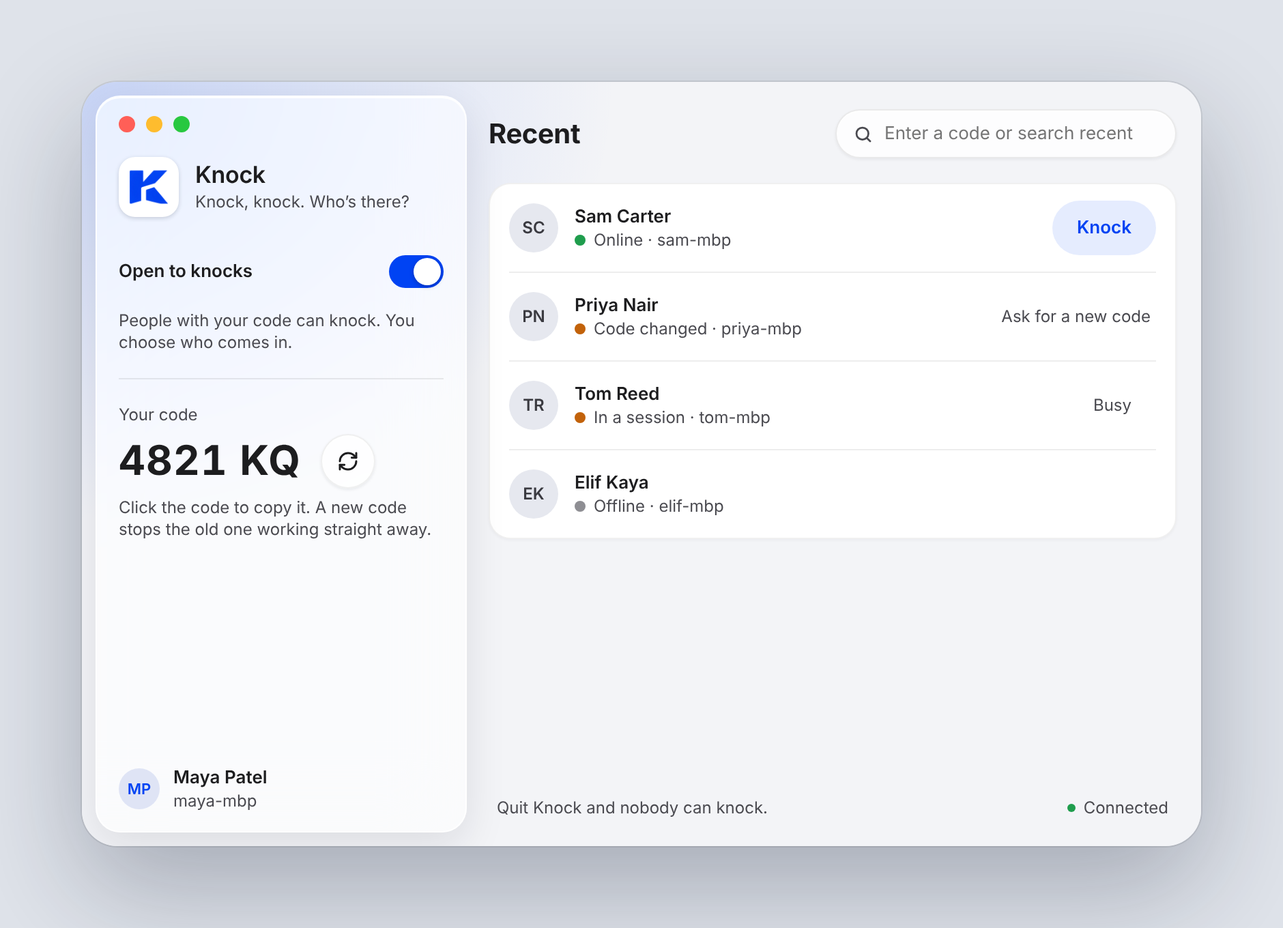
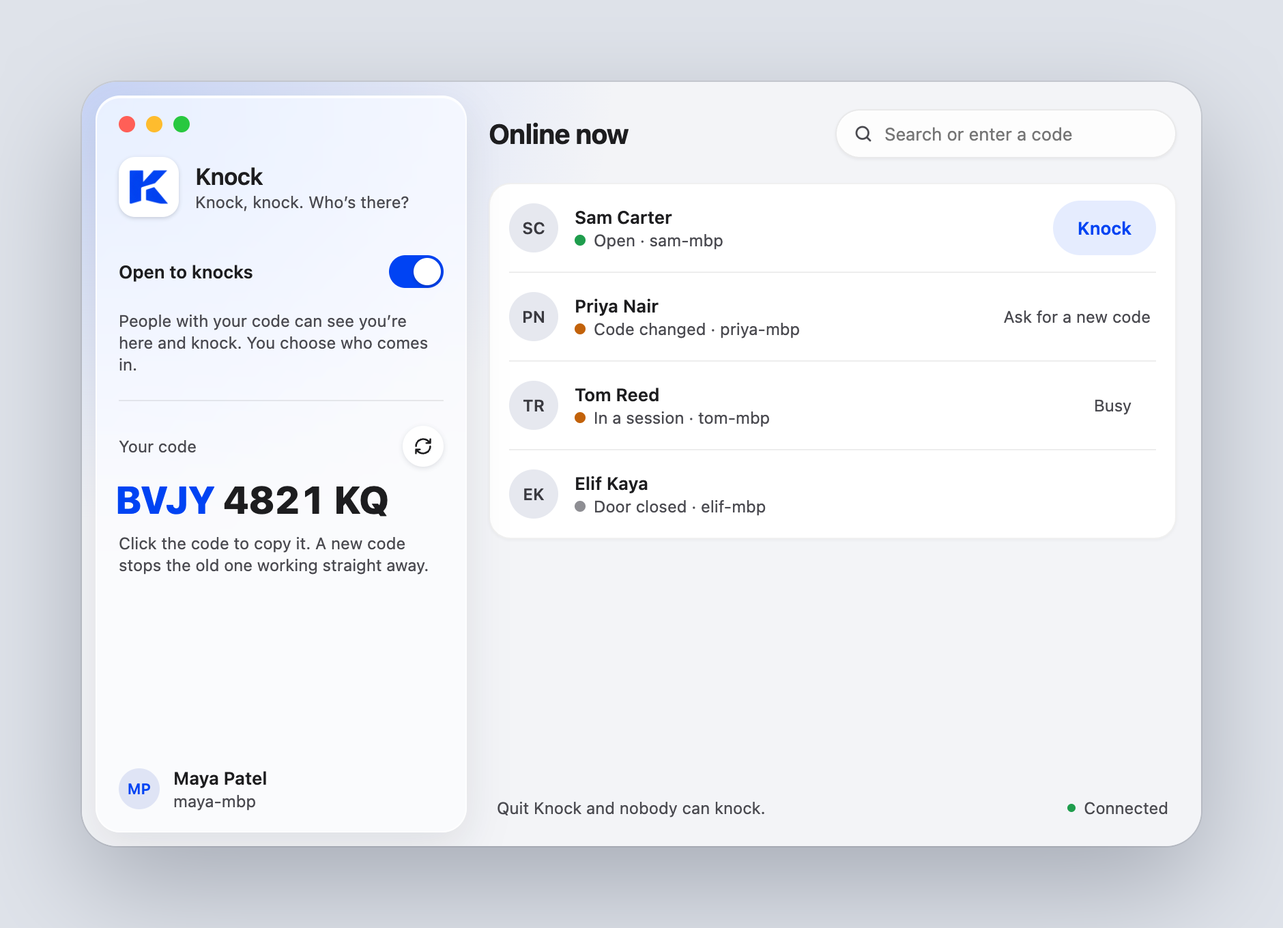
docs: match the mocks, README and landing to the real app
Home shows the full BVJY 4821 KQ code, the refresh button beside Your
code, "Online now" and Open/Door closed presence. Alerts carry the
verified line, the shared shell has Hands off and the key ribbon. The
landing CLI terminal shows the real door card and Let them in prompt.

diff --git a/design/mock/mocks/02-knock-alert.html b/design/mock/mocks/02-knock-alert.html
@@ -40,19 +40,19 @@ body{margin:0;min-height:100vh;display:flex;align-items:center;justify-content:c
 <span style="width: 20px; height: 20px; border-radius: 100px; background: #ffffff; box-shadow: 0 1px 3px rgba(0,0,0,0.25)"></span>
 </span>
 </button>
-<p style="margin: 0; font-size: 12px; line-height: 16px; color: #4a4a50">People with your code can knock. You choose who comes in.</p>
+<p style="margin: 0; font-size: 12px; line-height: 16px; color: #4a4a50">People with your code can see you’re here and knock. You choose who comes in.</p>
 </div>
 
 <div aria-hidden="true" style="height: 1px; background: rgba(0,0,0,0.08)"></div>
 
 <div style="display: flex; flex-direction: column; gap: 4px">
+<div style="display: flex; align-items: center; justify-content: space-between">
 <span style="font-size: 12px; line-height: 16px; color: #4a4a50">Your code</span>
-<div style="display: flex; align-items: center; gap: 6px">
-<button type="button" title="Click to copy" style="height: 44px; margin-left: -8px; padding: 0 8px; border: 0; border-radius: 12px; background: transparent; color: #1d1d1f; font-family: inherit; font-size: 30px; line-height: 36px; font-weight: 700; letter-spacing: 0.02em; font-variant-numeric: tabular-nums; white-space: nowrap; cursor: pointer">4821 KQ</button>
-<button type="button" aria-label="New code" title="New code" style="width: 40px; height: 40px; flex-shrink: 0; padding: 0; border: 1px solid rgba(0,0,0,0.06); border-radius: 100px; background: rgba(255,255,255,0.8); box-shadow: 0 1px 2px rgba(15,23,42,0.08), inset 0 1px 0 rgba(255,255,255,0.9); color: #1d1d1f; display: flex; align-items: center; justify-content: center; cursor: pointer">
-<svg aria-hidden="true" width="16" height="16" viewBox="0 0 24 24" fill="none" stroke="currentColor" stroke-width="2.2" stroke-linecap="round" stroke-linejoin="round"><path d="M3 12a9 9 0 0 1 9-9 9.75 9.75 0 0 1 6.74 2.74L21 8"></path><path d="M21 3v5h-5"></path><path d="M21 12a9 9 0 0 1-9 9 9.75 9.75 0 0 1-6.74-2.74L3 16"></path><path d="M8 16H3v5"></path></svg>
+<button type="button" aria-label="New code" title="New code. The old one stops working straight away." style="width: 30px; height: 30px; flex-shrink: 0; padding: 0; border: 0; border-radius: 100px; background: #ffffff; box-shadow: 0 1px 4px rgba(15,23,42,0.14); color: #1d1d1f; display: flex; align-items: center; justify-content: center; cursor: pointer">
+<svg aria-hidden="true" width="14" height="14" viewBox="0 0 24 24" fill="none" stroke="currentColor" stroke-width="2.2" stroke-linecap="round" stroke-linejoin="round"><path d="M3 12a9 9 0 0 1 9-9 9.75 9.75 0 0 1 6.74 2.74L21 8"></path><path d="M21 3v5h-5"></path><path d="M21 12a9 9 0 0 1-9 9 9.75 9.75 0 0 1-6.74-2.74L3 16"></path><path d="M8 16H3v5"></path></svg>
 </button>
 </div>
+<button type="button" id="copy-code" title="Click to copy" style="height: 40px; margin-left: -2px; padding: 0; border: 0; background: transparent; color: #1d1d1f; font-family: ui-rounded, 'SF Pro Rounded', -apple-system, system-ui, sans-serif; font-size: 28px; line-height: 36px; font-weight: 800; font-variant-numeric: tabular-nums; white-space: nowrap; text-align: left; cursor: pointer"><span style="color: #0043f3">BVJY</span> 4821 KQ</button>
 <p style="margin: 0; font-size: 12px; line-height: 16px; color: #4a4a50">Click the code to copy it. A new code stops the old one working straight away.</p>
 </div>
 
@@ -69,11 +69,11 @@ body{margin:0;min-height:100vh;display:flex;align-items:center;justify-content:c
 <main style="flex: 1; min-width: 0; box-sizing: border-box; padding: 6px 8px 6px 6px; display: flex; flex-direction: column; gap: 14px">
 
 <div style="display: flex; align-items: center; justify-content: space-between; gap: 16px; height: 44px">
-<h2 style="margin: 0; font-size: 20px; line-height: 24px; font-weight: 700; letter-spacing: -0.01em">Recent</h2>
+<h2 style="margin: 0; font-size: 20px; line-height: 24px; font-weight: 700; letter-spacing: -0.01em">Online now</h2>
 <div style="width: 250px; height: 36px; box-sizing: border-box; padding: 0 12px; display: flex; align-items: center; gap: 8px; border-radius: 100px; background: rgba(255,255,255,0.8); border: 1px solid rgba(0,0,0,0.08); box-shadow: 0 1px 2px rgba(15,23,42,0.06), inset 0 1px 0 rgba(255,255,255,0.9)">
 <svg aria-hidden="true" width="15" height="15" viewBox="0 0 24 24" fill="none" stroke="#4a4a50" stroke-width="2.2" stroke-linecap="round" stroke-linejoin="round"><circle cx="11" cy="11" r="7"></circle><path d="m20 20-3.5-3.5"></path></svg>
-<label for="find" style="position: absolute; width: 1px; height: 1px; overflow: hidden; clip-path: inset(50%)">Enter a code or search recent sessions</label>
-<input id="find" type="text" placeholder="Enter a code or search recent" style="flex: 1; min-width: 0; height: 32px; padding: 0; border: 0; outline: 0; background: transparent; color: #1d1d1f; font-family: inherit; font-size: 13px; line-height: 18px">
+<label for="find" style="position: absolute; width: 1px; height: 1px; overflow: hidden; clip-path: inset(50%)">Search or enter a code</label>
+<input id="find" type="text" placeholder="Search or enter a code" style="flex: 1; min-width: 0; height: 32px; padding: 0; border: 0; outline: 0; background: transparent; color: #1d1d1f; font-family: inherit; font-size: 13px; line-height: 18px">
 </div>
 </div>
 
@@ -83,7 +83,7 @@ body{margin:0;min-height:100vh;display:flex;align-items:center;justify-content:c
 <span aria-hidden="true" style="width: 36px; height: 36px; flex-shrink: 0; border-radius: 100px; background: #e6e8ef; color: #3a3a40; font-size: 12px; line-height: 16px; font-weight: 600; display: flex; align-items: center; justify-content: center">SC</span>
 <div style="flex: 1; min-width: 0; display: flex; flex-direction: column">
 <span style="font-weight: 600">Sam Carter</span>
-<span style="display: flex; align-items: center; gap: 6px; font-size: 12px; line-height: 16px; color: #4a4a50"><span aria-hidden="true" style="width: 8px; height: 8px; border-radius: 100px; background: #1f9d4d"></span><span>Online · sam-mbp</span></span>
+<span style="display: flex; align-items: center; gap: 6px; font-size: 12px; line-height: 16px; color: #4a4a50"><span aria-hidden="true" style="width: 8px; height: 8px; border-radius: 100px; background: #1f9d4d"></span><span>Open · sam-mbp</span></span>
 </div>
 <button type="button" aria-label="Knock on Sam Carter" style="height: 40px; padding: 0 18px; border: 0; border-radius: 100px; background: rgba(0,67,243,0.10); color: #0043f3; font-family: inherit; font-size: 13px; line-height: 18px; font-weight: 600; cursor: pointer">Knock</button>
 </div>
@@ -110,7 +110,7 @@ body{margin:0;min-height:100vh;display:flex;align-items:center;justify-content:c
 <span aria-hidden="true" style="width: 36px; height: 36px; flex-shrink: 0; border-radius: 100px; background: #e6e8ef; color: #3a3a40; font-size: 12px; line-height: 16px; font-weight: 600; display: flex; align-items: center; justify-content: center">EK</span>
 <div style="flex: 1; min-width: 0; display: flex; flex-direction: column">
 <span style="font-weight: 600">Elif Kaya</span>
-<span style="display: flex; align-items: center; gap: 6px; font-size: 12px; line-height: 16px; color: #4a4a50"><span aria-hidden="true" style="width: 8px; height: 8px; border-radius: 100px; background: #8e8e93"></span><span>Offline · elif-mbp</span></span>
+<span style="display: flex; align-items: center; gap: 6px; font-size: 12px; line-height: 16px; color: #4a4a50"><span aria-hidden="true" style="width: 8px; height: 8px; border-radius: 100px; background: #8e8e93"></span><span>Door closed · elif-mbp</span></span>
 </div>
 </div>
 
@@ -130,14 +130,15 @@ body{margin:0;min-height:100vh;display:flex;align-items:center;justify-content:c
 
 <div aria-hidden="true" style="position: relative; width: 68px; height: 68px">
 <span style="width: 68px; height: 68px; border-radius: 100px; background: #dfe4f5; color: #0043f3; font-size: 22px; line-height: 28px; font-weight: 600; display: flex; align-items: center; justify-content: center">SC</span>
-<span style="position: absolute; right: -4px; bottom: -4px; width: 28px; height: 28px; box-sizing: border-box; border-radius: 100px; background: #0043f3; border: 2px solid #ffffff; display: flex; align-items: center; justify-content: center">
-<img src="../assets/knock-k-white.png" alt="" style="width: 14px; height: 14px; display: block">
+<span style="position: absolute; right: -4px; bottom: -4px; width: 28px; height: 28px; box-sizing: border-box; border-radius: 100px; background: #ffffff; border: 2px solid #ffffff; box-shadow: 0 1px 3px rgba(0,0,0,0.18); display: flex; align-items: center; justify-content: center">
+<img src="../assets/knock-k.png" alt="" style="width: 16px; height: 16px; display: block">
 </span>
 </div>
 
 <div style="display: flex; flex-direction: column; gap: 6px">
 <h2 id="knock-title" style="margin: 0; font-size: 20px; line-height: 24px; font-weight: 700; letter-spacing: -0.01em">Knock, knock.</h2>
 <p style="margin: 0">Sam Carter wants to come in from sam-mbp.</p>
+<p style="margin: 2px 0 0 0; display: flex; align-items: center; justify-content: center; gap: 5px; font-size: 11px; line-height: 14px; color: #6e6e76"><svg aria-hidden="true" width="12" height="12" viewBox="0 0 24 24" fill="currentColor"><path d="M12 1.5l2.6 1.9 3.2-.1 1 3 2.6 1.9-1 3 1 3-2.6 1.9-1 3-3.2-.1L12 22.5l-2.6-1.9-3.2.1-1-3-2.6-1.9 1-3-1-3 2.6-1.9 1-3 3.2.1z"/><path d="M8 12.2l2.6 2.6L16.2 9" fill="none" stroke="#fff" stroke-width="2.2" stroke-linecap="round" stroke-linejoin="round"/></svg><span>sam@carter.dev · GitHub</span></p>
 </div>
 
 <p style="margin: 0; font-size: 12px; line-height: 16px; color: #3a3a40">You’ll share one shell and see everything Sam types. You can end it any time.</p>

diff --git a/design/mock/mocks/01-home.html b/design/mock/mocks/01-home.html
@@ -38,19 +38,19 @@ body{margin:0;min-height:100vh;display:flex;align-items:center;justify-content:c
 <span style="width: 20px; height: 20px; border-radius: 100px; background: #ffffff; box-shadow: 0 1px 3px rgba(0,0,0,0.25)"></span>
 </span>
 </button>
-<p style="margin: 0; font-size: 12px; line-height: 16px; color: #4a4a50">People with your code can knock. You choose who comes in.</p>
+<p style="margin: 0; font-size: 12px; line-height: 16px; color: #4a4a50">People with your code can see you’re here and knock. You choose who comes in.</p>
 </div>
 
 <div aria-hidden="true" style="height: 1px; background: rgba(0,0,0,0.08)"></div>
 
 <div style="display: flex; flex-direction: column; gap: 4px">
+<div style="display: flex; align-items: center; justify-content: space-between">
 <span style="font-size: 12px; line-height: 16px; color: #4a4a50">Your code</span>
-<div style="display: flex; align-items: center; gap: 6px">
-<button type="button" id="copy-code" title="Click to copy" style="height: 44px; margin-left: -8px; padding: 0 8px; border: 0; border-radius: 12px; background: transparent; color: #1d1d1f; font-family: inherit; font-size: 30px; line-height: 36px; font-weight: 700; letter-spacing: 0.02em; font-variant-numeric: tabular-nums; white-space: nowrap; cursor: pointer">4821 KQ</button>
-<button type="button" aria-label="New code" title="New code" style="width: 40px; height: 40px; flex-shrink: 0; padding: 0; border: 1px solid rgba(0,0,0,0.06); border-radius: 100px; background: rgba(255,255,255,0.8); box-shadow: 0 1px 2px rgba(15,23,42,0.08), inset 0 1px 0 rgba(255,255,255,0.9); color: #1d1d1f; display: flex; align-items: center; justify-content: center; cursor: pointer">
-<svg aria-hidden="true" width="16" height="16" viewBox="0 0 24 24" fill="none" stroke="currentColor" stroke-width="2.2" stroke-linecap="round" stroke-linejoin="round"><path d="M3 12a9 9 0 0 1 9-9 9.75 9.75 0 0 1 6.74 2.74L21 8"></path><path d="M21 3v5h-5"></path><path d="M21 12a9 9 0 0 1-9 9 9.75 9.75 0 0 1-6.74-2.74L3 16"></path><path d="M8 16H3v5"></path></svg>
+<button type="button" aria-label="New code" title="New code. The old one stops working straight away." style="width: 30px; height: 30px; flex-shrink: 0; padding: 0; border: 0; border-radius: 100px; background: #ffffff; box-shadow: 0 1px 4px rgba(15,23,42,0.14); color: #1d1d1f; display: flex; align-items: center; justify-content: center; cursor: pointer">
+<svg aria-hidden="true" width="14" height="14" viewBox="0 0 24 24" fill="none" stroke="currentColor" stroke-width="2.2" stroke-linecap="round" stroke-linejoin="round"><path d="M3 12a9 9 0 0 1 9-9 9.75 9.75 0 0 1 6.74 2.74L21 8"></path><path d="M21 3v5h-5"></path><path d="M21 12a9 9 0 0 1-9 9 9.75 9.75 0 0 1-6.74-2.74L3 16"></path><path d="M8 16H3v5"></path></svg>
 </button>
 </div>
+<button type="button" id="copy-code" title="Click to copy" style="height: 40px; margin-left: -2px; padding: 0; border: 0; background: transparent; color: #1d1d1f; font-family: ui-rounded, 'SF Pro Rounded', -apple-system, system-ui, sans-serif; font-size: 28px; line-height: 36px; font-weight: 800; font-variant-numeric: tabular-nums; white-space: nowrap; text-align: left; cursor: pointer"><span style="color: #0043f3">BVJY</span> 4821 KQ</button>
 <p style="margin: 0; font-size: 12px; line-height: 16px; color: #4a4a50">Click the code to copy it. A new code stops the old one working straight away.</p>
 </div>
 
@@ -67,11 +67,11 @@ body{margin:0;min-height:100vh;display:flex;align-items:center;justify-content:c
 <main style="flex: 1; min-width: 0; box-sizing: border-box; padding: 6px 8px 6px 6px; display: flex; flex-direction: column; gap: 14px">
 
 <div style="display: flex; align-items: center; justify-content: space-between; gap: 16px; height: 44px">
-<h2 style="margin: 0; font-size: 20px; line-height: 24px; font-weight: 700; letter-spacing: -0.01em">Recent</h2>
+<h2 style="margin: 0; font-size: 20px; line-height: 24px; font-weight: 700; letter-spacing: -0.01em">Online now</h2>
 <div style="width: 250px; height: 36px; box-sizing: border-box; padding: 0 12px; display: flex; align-items: center; gap: 8px; border-radius: 100px; background: rgba(255,255,255,0.8); border: 1px solid rgba(0,0,0,0.08); box-shadow: 0 1px 2px rgba(15,23,42,0.06), inset 0 1px 0 rgba(255,255,255,0.9)">
 <svg aria-hidden="true" width="15" height="15" viewBox="0 0 24 24" fill="none" stroke="#4a4a50" stroke-width="2.2" stroke-linecap="round" stroke-linejoin="round"><circle cx="11" cy="11" r="7"></circle><path d="m20 20-3.5-3.5"></path></svg>
-<label for="find" style="position: absolute; width: 1px; height: 1px; overflow: hidden; clip-path: inset(50%)">Enter a code or search recent sessions</label>
-<input id="find" type="text" placeholder="Enter a code or search recent" style="flex: 1; min-width: 0; height: 32px; padding: 0; border: 0; outline: 0; background: transparent; color: #1d1d1f; font-family: inherit; font-size: 13px; line-height: 18px">
+<label for="find" style="position: absolute; width: 1px; height: 1px; overflow: hidden; clip-path: inset(50%)">Search or enter a code</label>
+<input id="find" type="text" placeholder="Search or enter a code" style="flex: 1; min-width: 0; height: 32px; padding: 0; border: 0; outline: 0; background: transparent; color: #1d1d1f; font-family: inherit; font-size: 13px; line-height: 18px">
 </div>
 </div>
 
@@ -81,7 +81,7 @@ body{margin:0;min-height:100vh;display:flex;align-items:center;justify-content:c
 <span aria-hidden="true" style="width: 36px; height: 36px; flex-shrink: 0; border-radius: 100px; background: #e6e8ef; color: #3a3a40; font-size: 12px; line-height: 16px; font-weight: 600; display: flex; align-items: center; justify-content: center">SC</span>
 <div style="flex: 1; min-width: 0; display: flex; flex-direction: column">
 <span style="font-weight: 600">Sam Carter</span>
-<span style="display: flex; align-items: center; gap: 6px; font-size: 12px; line-height: 16px; color: #4a4a50"><span aria-hidden="true" style="width: 8px; height: 8px; border-radius: 100px; background: #1f9d4d"></span><span>Online · sam-mbp</span></span>
+<span style="display: flex; align-items: center; gap: 6px; font-size: 12px; line-height: 16px; color: #4a4a50"><span aria-hidden="true" style="width: 8px; height: 8px; border-radius: 100px; background: #1f9d4d"></span><span>Open · sam-mbp</span></span>
 </div>
 <button type="button" aria-label="Knock on Sam Carter" style="height: 40px; padding: 0 18px; border: 0; border-radius: 100px; background: rgba(0,67,243,0.10); color: #0043f3; font-family: inherit; font-size: 13px; line-height: 18px; font-weight: 600; cursor: pointer">Knock</button>
 </div>
@@ -108,7 +108,7 @@ body{margin:0;min-height:100vh;display:flex;align-items:center;justify-content:c
 <span aria-hidden="true" style="width: 36px; height: 36px; flex-shrink: 0; border-radius: 100px; background: #e6e8ef; color: #3a3a40; font-size: 12px; line-height: 16px; font-weight: 600; display: flex; align-items: center; justify-content: center">EK</span>
 <div style="flex: 1; min-width: 0; display: flex; flex-direction: column">
 <span style="font-weight: 600">Elif Kaya</span>
-<span style="display: flex; align-items: center; gap: 6px; font-size: 12px; line-height: 16px; color: #4a4a50"><span aria-hidden="true" style="width: 8px; height: 8px; border-radius: 100px; background: #8e8e93"></span><span>Offline · elif-mbp</span></span>
+<span style="display: flex; align-items: center; gap: 6px; font-size: 12px; line-height: 16px; color: #4a4a50"><span aria-hidden="true" style="width: 8px; height: 8px; border-radius: 100px; background: #8e8e93"></span><span>Door closed · elif-mbp</span></span>
 </div>
 </div>
 

diff --git a/design/mock/mocks/04-shared-shell.html b/design/mock/mocks/04-shared-shell.html
@@ -26,6 +26,7 @@ body{margin:0;min-height:100vh;display:flex;align-items:center;justify-content:c
 <span style="color: #c7c9d1; font-variant-numeric: tabular-nums">04:12</span>
 </div>
 <div style="flex: 1"></div>
+<button type="button" aria-pressed="false" style="height: 44px; padding: 0 18px; border: 1px solid rgba(255,255,255,0.16); border-radius: 100px; background: rgba(255,255,255,0.10); box-shadow: inset 0 1px 0 rgba(255,255,255,0.18); color: #ffffff; font-family: inherit; font-size: 13px; line-height: 18px; font-weight: 600; display: flex; align-items: center; gap: 7px; cursor: pointer"><svg aria-hidden="true" width="15" height="15" viewBox="0 0 24 24" fill="none" stroke="currentColor" stroke-width="2" stroke-linecap="round" stroke-linejoin="round"><path d="M18 11V6a2 2 0 0 0-4 0v5M14 10V4a2 2 0 0 0-4 0v6M10 10.5V6a2 2 0 0 0-4 0v8"/><path d="M18 8a2 2 0 1 1 4 0v6a8 8 0 0 1-8 8h-2c-2.8 0-4.5-.86-5.99-2.34l-3.6-3.6a2 2 0 0 1 2.83-2.82L7 15"/></svg>Hands off</button>
 <button type="button" style="height: 44px; padding: 0 20px; border: 0; border-radius: 100px; background: #d70015; box-shadow: inset 0 1px 0 rgba(255,255,255,0.25); color: #ffffff; font-family: inherit; font-size: 13px; line-height: 18px; font-weight: 600; cursor: pointer">End session</button>
 </header>
 
@@ -42,6 +43,7 @@ body{margin:0;min-height:100vh;display:flex;align-items:center;justify-content:c
 <span aria-hidden="true" style="width: 8px; height: 8px; border-radius: 100px; background: #8ab4ff"></span>
 <span>Sam is typing</span>
 </span>
+<span style="display: flex; gap: 4px; margin-right: auto"><span style="padding: 1px 6px; border-radius: 5px; background: rgba(255,255,255,0.08); font-family: ui-monospace, 'SF Mono', Menlo, monospace; font-size: 11px; line-height: 16px; color: #c7c9d1">b</span><span style="padding: 1px 6px; border-radius: 5px; background: rgba(255,255,255,0.08); font-family: ui-monospace, 'SF Mono', Menlo, monospace; font-size: 11px; line-height: 16px; color: #c7c9d1">r</span><span style="padding: 1px 6px; border-radius: 5px; background: rgba(255,255,255,0.08); font-family: ui-monospace, 'SF Mono', Menlo, monospace; font-size: 11px; line-height: 16px; color: #c7c9d1">e</span><span style="padding: 1px 6px; border-radius: 5px; background: rgba(255,255,255,0.08); font-family: ui-monospace, 'SF Mono', Menlo, monospace; font-size: 11px; line-height: 16px; color: #c7c9d1">w</span><span style="padding: 1px 6px; border-radius: 5px; background: rgba(255,255,255,0.08); font-family: ui-monospace, 'SF Mono', Menlo, monospace; font-size: 11px; line-height: 16px; color: #c7c9d1">␣</span><span style="padding: 1px 6px; border-radius: 5px; background: rgba(255,255,255,0.08); font-family: ui-monospace, 'SF Mono', Menlo, monospace; font-size: 11px; line-height: 16px; color: #c7c9d1">i</span><span style="padding: 1px 6px; border-radius: 5px; background: rgba(255,255,255,0.08); font-family: ui-monospace, 'SF Mono', Menlo, monospace; font-size: 11px; line-height: 16px; color: #c7c9d1">n</span><span style="padding: 1px 6px; border-radius: 5px; background: rgba(255,255,255,0.08); font-family: ui-monospace, 'SF Mono', Menlo, monospace; font-size: 11px; line-height: 16px; color: #c7c9d1">s</span><span style="padding: 1px 6px; border-radius: 5px; background: rgba(255,255,255,0.08); font-family: ui-monospace, 'SF Mono', Menlo, monospace; font-size: 11px; line-height: 16px; color: #c7c9d1">t</span><span style="padding: 1px 6px; border-radius: 5px; background: rgba(255,255,255,0.08); font-family: ui-monospace, 'SF Mono', Menlo, monospace; font-size: 11px; line-height: 16px; color: #c7c9d1">a</span><span style="padding: 1px 6px; border-radius: 5px; background: rgba(255,255,255,0.08); font-family: ui-monospace, 'SF Mono', Menlo, monospace; font-size: 11px; line-height: 16px; color: #c7c9d1">l</span><span style="padding: 1px 6px; border-radius: 5px; background: rgba(255,255,255,0.08); font-family: ui-monospace, 'SF Mono', Menlo, monospace; font-size: 11px; line-height: 16px; color: #c7c9d1">l</span><span style="padding: 1px 6px; border-radius: 5px; background: rgba(255,255,255,0.08); font-family: ui-monospace, 'SF Mono', Menlo, monospace; font-size: 11px; line-height: 16px; color: #c7c9d1">␣</span><span style="padding: 1px 6px; border-radius: 5px; background: rgba(255,255,255,0.08); font-family: ui-monospace, 'SF Mono', Menlo, monospace; font-size: 11px; line-height: 16px; color: #c7c9d1">j</span><span style="padding: 1px 6px; border-radius: 5px; background: rgba(255,255,255,0.08); font-family: ui-monospace, 'SF Mono', Menlo, monospace; font-size: 11px; line-height: 16px; color: #c7c9d1">q</span></span>
 <span style="font-size: 12px; line-height: 16px; color: #a9acb6">You can type too. End the session or quit Knock to close the door.</span>
 </footer>
 

diff --git a/landing/index.html b/landing/index.html
@@ -237,7 +237,7 @@
             <h3 class="text-xl font-bold tracking-tight">Knock.app</h3>
             <p class="mt-2 leading-relaxed text-muted">A native Mac app with a menu bar item, notch alerts and notifications. Your code sits in the sidebar, your people in a list with live presence.</p>
             <img src="/img/01-home.webp" width="1400" height="977" loading="lazy" decoding="async"
-                 alt="Knock's Recent list showing Sam Carter online with a Knock button, Priya Nair with a changed code, and Tom Reed in a session."
+                 alt="Knock's home screen: your code BVJY 4821 KQ, and your list with Sam Carter open and a Knock button, Priya Nair with a changed code, and Tom Reed in a session."
                  class="shot mt-6">
           </article>
           <article class="card flex flex-col p-6 sm:p-8">
@@ -249,12 +249,19 @@
                 <span class="ml-2 text-xs font-medium text-term-dim">maya@maya-mbp</span>
               </div>
               <pre><code><span class="prompt">~ % </span>knock open
-Your door is open. Ctrl-C to close it.
+<span class="term-box"><b>Your door is open</b><span class="text-term-dim">  ·  Maya Patel</span>
 
-<span class="text-term-prompt">Knock, knock: Sam Carter on sam-mbp</span>
-Let Sam in? [y/N] y
+<span class="text-term-dim">Your code</span>
+<span class="term-code">BVJY 4821 KQ</span>
 
-<span class="text-term-ok">Sam is in. This shell is now shared.</span>
+<span class="text-term-dim">They knock with:  </span><b class="text-[#3d7bff]">knock BVJY 4821 KQ</b></span>
+<span class="text-term-dim">Waiting for a knock. Ctrl-C closes your door.</span>
+<span class="term-box"><b class="text-[#3d7bff]">Knock, knock.</b>
+<b>Sam Carter</b> wants to come in from <b>sam-mbp</b>.
+<span class="text-term-ok">✓ verified</span><span class="text-term-dim"> with GitHub · sam@carter.dev</span>
+
+Let them in? <b>[y/N]</b> <span class="text-term-dim">52s</span></span>
+<b>Sam Carter</b> is in. This shell is now shared.
 <span class="prompt">~ % </span><span class="inline-block h-4 w-2 translate-y-0.5 bg-term-prompt" aria-hidden="true"></span></code></pre>
             </div>
             <dl class="mt-6 grid gap-x-4 gap-y-2 text-sm sm:grid-cols-[auto_1fr]">

diff --git a/design/mock/mocks/03-knock-notch.html b/design/mock/mocks/03-knock-notch.html
@@ -24,6 +24,7 @@ body{margin:0;min-height:100vh;display:flex;align-items:center;justify-content:c
 <div style="display: flex; flex-direction: column; min-width: 0">
 <h1 id="notch-title" style="margin: 0; font-size: 15px; line-height: 20px; font-weight: 600">Knock, knock.</h1>
 <p style="margin: 0; font-size: 12px; line-height: 16px; color: #c7c9d1">Sam Carter wants to come in from sam-mbp.</p>
+<p style="margin: 3px 0 0 0; display: flex; align-items: center; gap: 5px; font-size: 11px; line-height: 14px; color: #9a9ca6"><svg aria-hidden="true" width="12" height="12" viewBox="0 0 24 24" fill="currentColor"><path d="M12 1.5l2.6 1.9 3.2-.1 1 3 2.6 1.9-1 3 1 3-2.6 1.9-1 3-3.2-.1L12 22.5l-2.6-1.9-3.2.1-1-3-2.6-1.9 1-3-1-3 2.6-1.9 1-3 3.2.1z"/><path d="M8 12.2l2.6 2.6L16.2 9" fill="none" stroke="#000" stroke-width="2.2" stroke-linecap="round" stroke-linejoin="round"/></svg><span>sam@carter.dev · GitHub</span></p>
 </div>
 </div>
 <div style="display: grid; grid-template-columns: repeat(2, minmax(0, 1fr)); gap: 10px">

diff --git a/landing/src/style.css b/landing/src/style.css
@@ -131,6 +131,13 @@
   .prompt {
     @apply text-term-prompt select-none;
   }
+  /* Lip Gloss's rounded border box and the code tag, as `knock open` draws them. */
+  .term-box {
+    @apply my-1 inline-block rounded-md border border-[#0043f3] px-4 py-2;
+  }
+  .term-code {
+    @apply bg-[#0043f3] px-2 font-bold text-white;
+  }
 
   /* One-line copyable command. */
   .cmd {

diff --git a/DESIGN.md b/DESIGN.md
@@ -221,7 +221,7 @@ Start here. Targets macOS 27; uses the system glass materials rather than custom
 
 | Mock | Screen |
 |---|---|
-| `01-home` | Glass sidebar: "Open to knocks" switch, your code with a refresh button on the same line (click the code to copy), your account. Main area: Recent list and a field to enter a code. |
+| `01-home` | Glass sidebar: "Open to knocks" switch, your code with a refresh button on the same line (click the code to copy), your account. Main area: "Online now" list with presence and a field to search or enter a code. |
 | `02-knock-alert` | Knock shown as a glass alert inside the window. |
 | `03-knock-notch` | Knock shown dropping from the notch. |
 | `04-shared-shell` | The terminal, who is in it, a timer, "End session", a typing indicator. |
